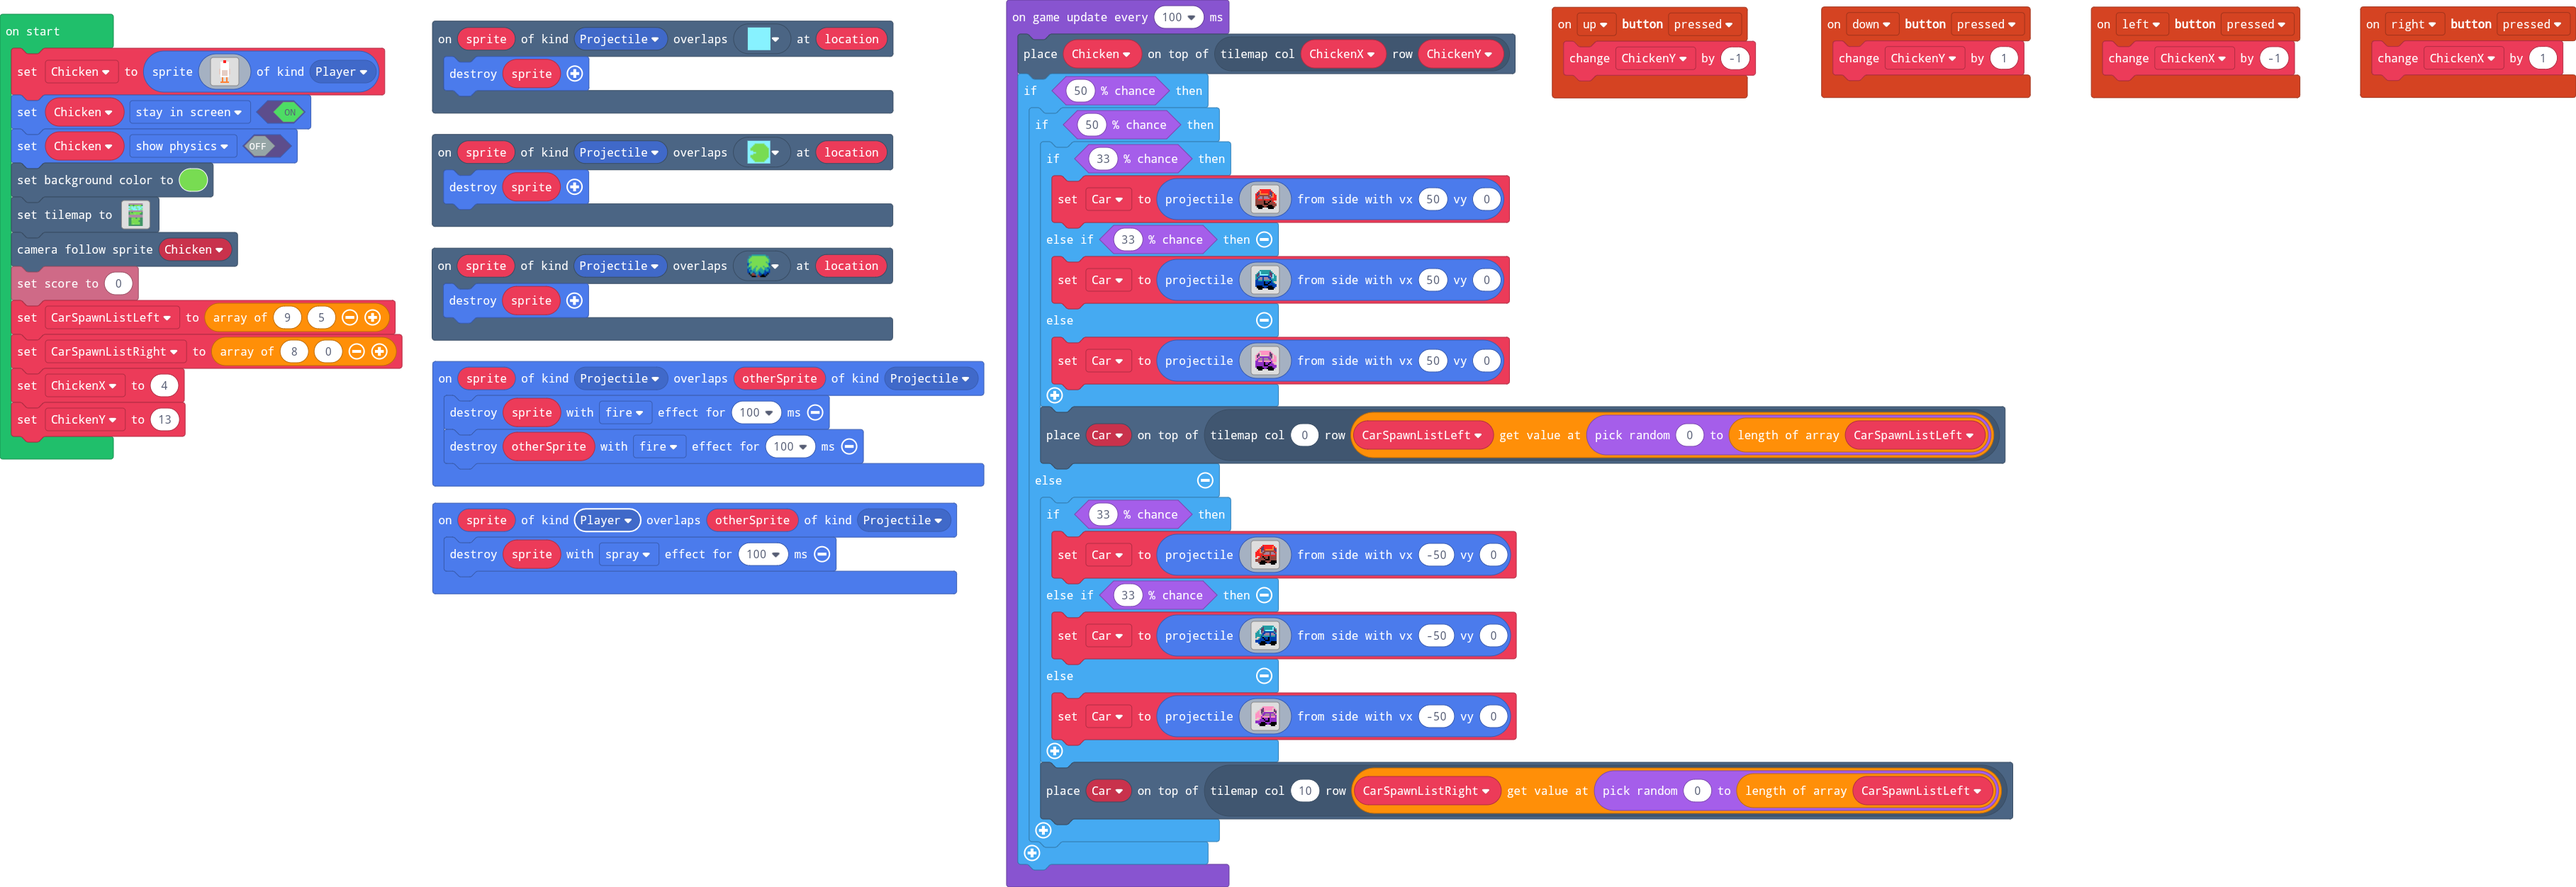
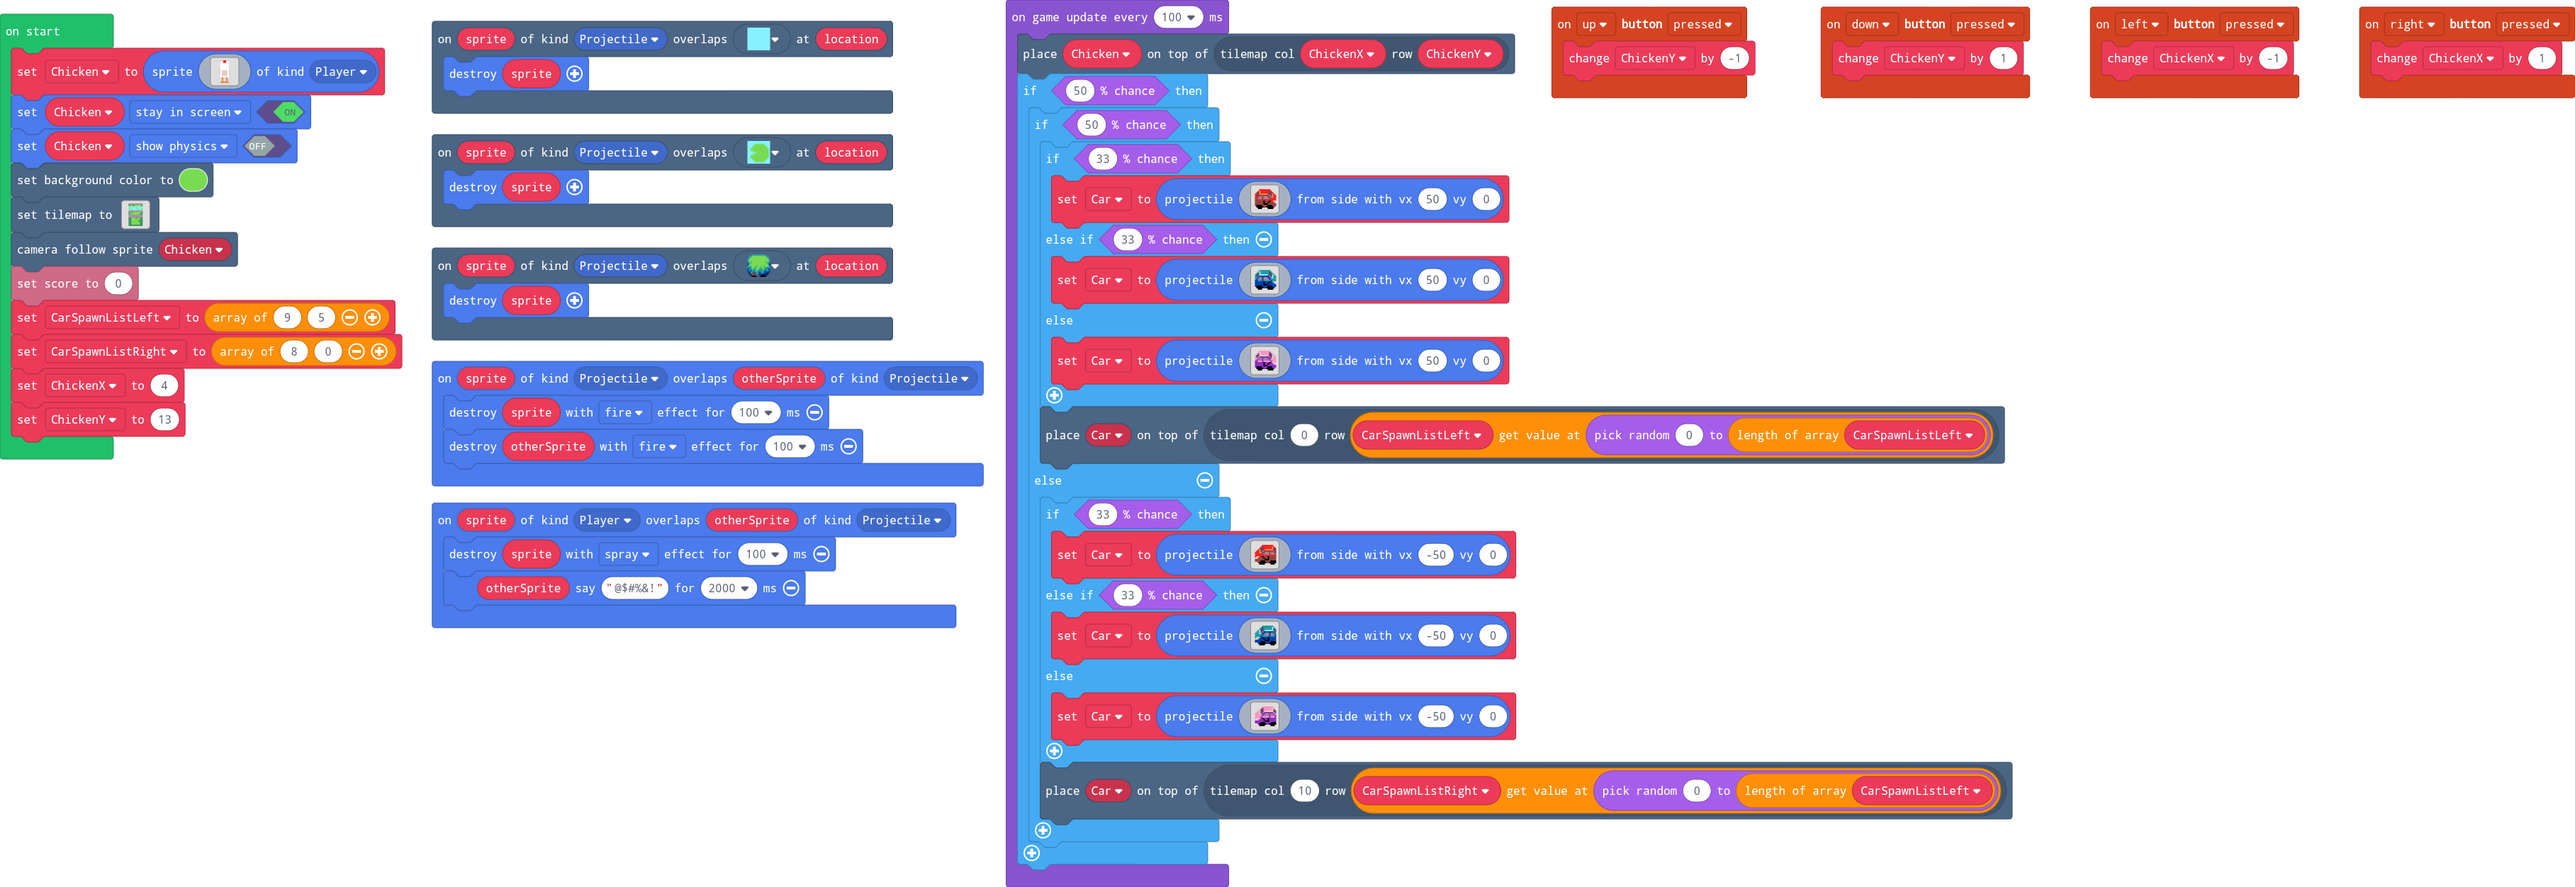
Update main.blocks, main.ts

diff --git a/main.ts b/main.ts
@@ -93,6 +93,7 @@ scene.onOverlapTile(SpriteKind.Projectile, myTiles.tile3, function (sprite, loca
 })
 sprites.onOverlap(SpriteKind.Player, SpriteKind.Projectile, function (sprite, otherSprite) {
     sprite.destroy(effects.spray, 100)
+    otherSprite.say("@$#%&!", 2000)
 })
 sprites.onOverlap(SpriteKind.Projectile, SpriteKind.Projectile, function (sprite, otherSprite) {
     sprite.destroy(effects.fire, 100)
